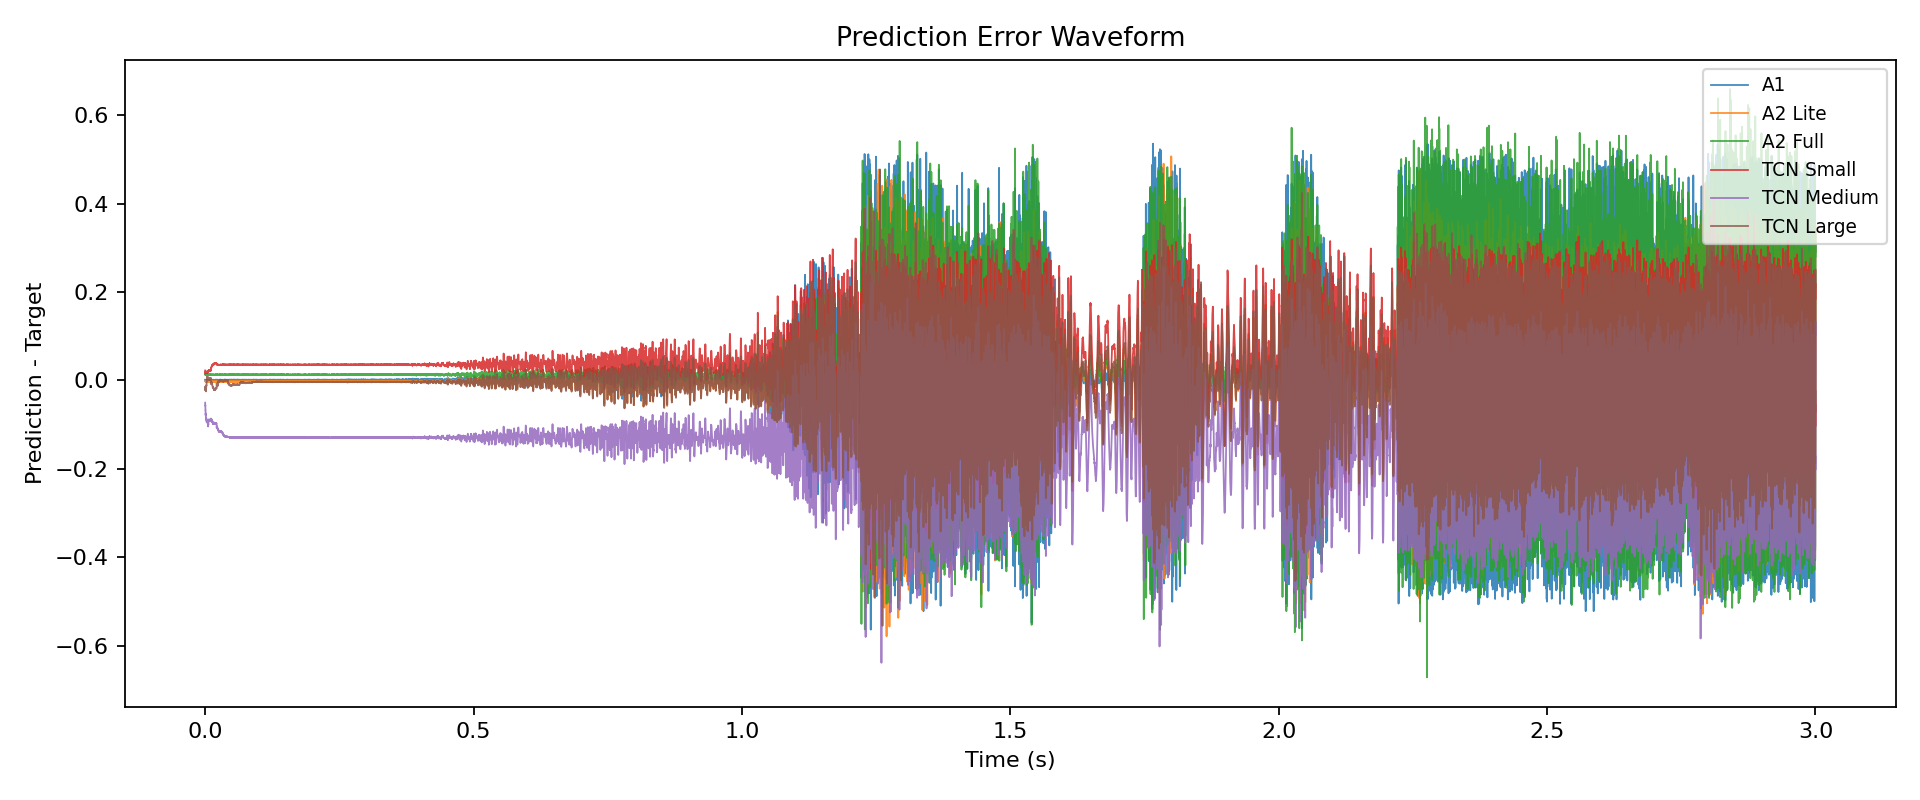
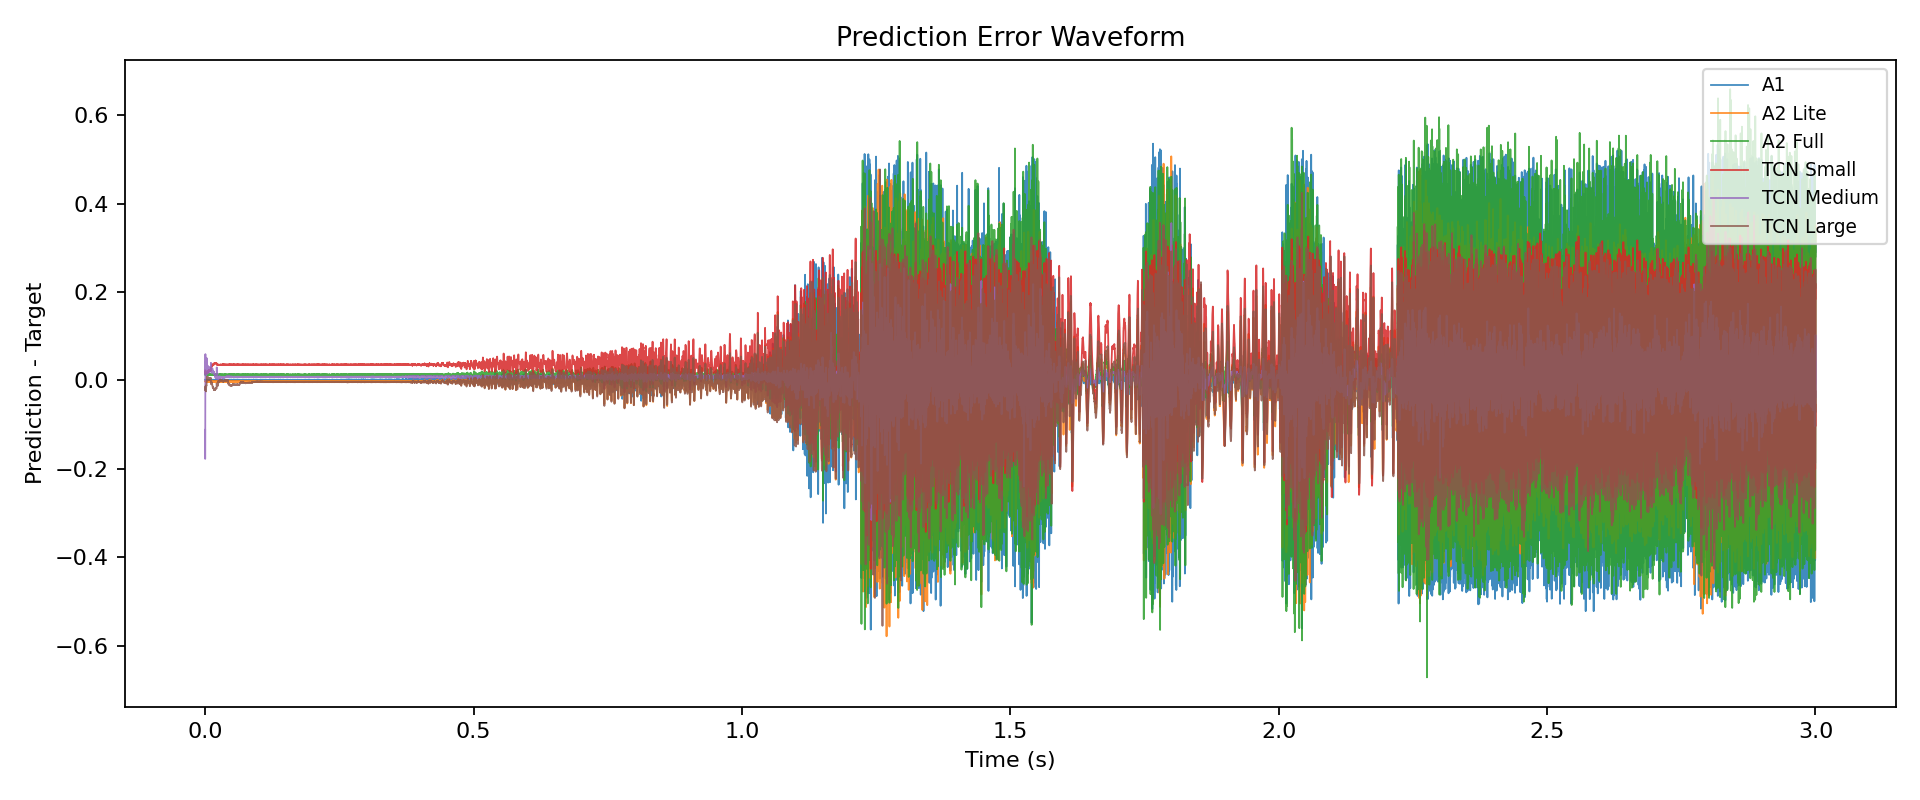
Update reports: final experiment summary, TCN model card, subjective listening template, and updated figures

Changed region(s): [[0.125, 0.4688, 0.9688, 0.7812], [0.1875, 0.4688, 0.25, 0.5], [0.0938, 0.4375, 0.125, 0.4688]]

diff --git a/reports/FINAL_EXPERIMENT_SUMMARY.md b/reports/FINAL_EXPERIMENT_SUMMARY.md
@@ -1,0 +1,47 @@
+# Final Experiment Summary
+
+## 1. Goal
+
+This project builds a custom neural audio black-box modeling system for dry-to-wet guitar tone transformation.
+
+## 2. Baselines
+
+- A1 baseline
+- A2-Lite baseline
+- A2-Full baseline
+
+## 3. Custom Model
+
+- GatedTCN-Small
+- GatedTCN-Medium
+- GatedTCN-Large
+
+## 4. Final Selected Model
+
+GatedTCN-Medium is selected as the final custom model.
+
+## 5. Held-out Test Comparison
+
+| Model | Test MSE | Test MAE | Test ESR | Test MRSTFT | Test SNR | RTF | Notes |
+|---|---:|---:|---:|---:|---:|---:|---|
+| A1 baseline | 0.0253307 | 0.0999642 | 1.7338 | 1.54993 | -1.91394 | 0.0670541 | Baseline prediction-file mode |
+| A2-Lite baseline | 0.0161523 | 0.0939756 | 1.08471 | 4.6246 | -0.275191 | 0.0517085 | Baseline prediction-file mode |
+| A2-Full baseline | 0.0207692 | 0.0924068 | 1.42595 | 2.27191 | -0.982792 | 0.0708378 | Baseline prediction-file mode |
+| GatedTCN-Small | 0.0154348 | 0.0996688 | 1.08549 | 4.53482 | -0.311414 | 0.0738286 | Smoke checkpoint, not formal training |
+| GatedTCN-Medium | 0.000828382 | 0.0201283 | 0.0608064 | 1.9389 | 12.3276 | 0.0132906 | Formal 20-epoch GPU checkpoint; final selected custom model |
+| GatedTCN-Large | 0.0133959 | 0.0873261 | 0.903768 | 4.07872 | 0.448861 | 0.336964 | Smoke checkpoint, not formal training |
+
+## 6. Interpretation
+
+Lower ESR means the waveform energy error is lower. Higher SNR means the prediction is closer to the target. RTF lower than 1 means faster-than-real-time offline inference. On the current aligned dataset and held-out test split, the Medium formal checkpoint significantly improves over its previous smoke checkpoint and outperforms A1/A2 on key test metrics in this experiment.
+
+## 7. Why Medium Instead of Large
+
+Large currently remains a smoke checkpoint. It has a larger receptive field, but it also has much higher inference cost in the current benchmark. Medium has completed formal 20-epoch GPU training and gives better validated held-out results. Therefore, Medium is the defensible final model for the current project state.
+
+## 8. Remaining Work
+
+- Formal train Small and Large if more GPU time is available.
+- Run multiple random seeds.
+- Use more amplifier / pedal datasets.
+- Add listening test with human raters.

diff --git a/reports/FINAL_TCN_MODEL_CARD.md b/reports/FINAL_TCN_MODEL_CARD.md
@@ -1,0 +1,64 @@
+# Final TCN Model Card
+
+## Final Selected Model
+
+GatedTCN-Medium is selected as the final custom TCN model.
+
+## Reason for Selection
+
+- It completed 20-epoch formal GPU training.
+- It achieved the best held-out test performance among formally trained custom TCN models.
+- It outperformed A1/A2 baselines on Test ESR and Test SNR.
+- It has a lower RTF than A1/A2 baselines in the current benchmark.
+- Small and Large remain smoke checkpoints and are not selected as final models.
+
+## Architecture
+
+| Field | Value |
+|---|---|
+| Model | GatedTCN-Medium |
+| Channels | 32 |
+| Skip Channels | 32 |
+| Receptive Field | 4093 |
+| Parameters | 167553 |
+| Activation | Gated tanh-sigmoid |
+| Causality | Causal dilated convolution |
+| Residual Connection | Yes |
+| Skip Connection | Yes |
+
+## Training
+
+| Field | Value |
+|---|---|
+| Training Config | configs/tcn_gated/training_formal_medium.json |
+| Epochs | 20 |
+| Device | cuda |
+| CUDA Device | NVIDIA GeForce RTX 5070 Ti Laptop GPU |
+| Best Epoch | 19 |
+| Best Val Loss | 0.00628651725128293 |
+| Checkpoint | outputs/tcn_gated/medium/checkpoints/best.pt |
+
+## Held-out Test Metrics
+
+| Metric | Value |
+|---|---:|
+| Test MSE | 0.0008283822842243348 |
+| Test MAE | 0.02012827992587347 |
+| Test ESR | 0.06080636323433006 |
+| Test MRSTFT | 1.9389014005661012 |
+| Test SNR | 12.32761074742885 |
+
+## Inference Speed
+
+| Metric | Value |
+|---|---:|
+| RTF | 0.01329061198095302 |
+| Samples/s | 3611571.842499769 |
+| Average Chunk Latency ms | 71.7117828566448 |
+
+## Limitations
+
+- Only GatedTCN-Medium has completed formal 20-epoch training.
+- Small and Large are currently smoke checkpoints.
+- Final subjective listening evaluation still needs manual human judgment.
+- The model is trained on the current aligned dataset and may not generalize to unseen amplifiers or pedals without retraining.

diff --git a/reports/TEST_SPLIT_EVALUATION.md b/reports/TEST_SPLIT_EVALUATION.md
@@ -2,9 +2,9 @@
 
 ## Purpose
 
-Final metrics should be reported on the held-out test split, not only on the full aligned audio. The train split is used for training, the val split is used for checkpoint selection, and the test split is used for final metrics.
+Final metrics should be reported on the held-out test split, not only on the full aligned audio. The train split is used for training and is not used for final testing. The val split is used for checkpoint selection, and the held-out test split is used for final metrics.
 
-GatedTCN-Medium uses the 20-epoch formal GPU checkpoint. GatedTCN-Medium test metrics are based on the 20-epoch formal GPU checkpoint.
+A1/A2 use prediction-file mode. GatedTCN-Medium uses formal checkpoint mode. GatedTCN-Medium test metrics are based on the 20-epoch formal GPU checkpoint.
 
 ## Commands
 
@@ -68,5 +68,11 @@ C:\Users\yanbo\.conda\envs\ntt-gpu-cu128\python.exe .\src\ntt\evaluation\evaluat
 - train split is used for training;
 - val split is used for checkpoint selection;
 - test split is used for final metrics;
+- A1/A2 metrics use prediction-file mode;
+- GatedTCN-Medium metrics use formal checkpoint mode;
 - Medium test metrics were recomputed from `outputs/tcn_gated/medium/checkpoints/best.pt` using CUDA;
 - Small and Large remain smoke checkpoint results.
+
+## Final Model Test Result
+
+GatedTCN-Medium is the final selected custom TCN model. Its held-out test metrics are computed using the 20-epoch formal GPU checkpoint, not the earlier CPU smoke checkpoint.

diff --git a/reports/custom_tcn_vs_a1_a2_comparison.md b/reports/custom_tcn_vs_a1_a2_comparison.md
@@ -1,12 +1,12 @@
 # Custom TCN vs A1/A2 Comparison
 
-The custom model is integrated into the same comparison path as A1 and A2. The current `GatedTCN-Medium` numbers come from a CPU smoke training run, not a full-quality training run.
+The custom model is integrated into the same comparison path as A1 and A2. The current `GatedTCN-Medium` numbers come from the 20-epoch formal GPU checkpoint.
 
 | Model | MSE | MAE | ESR | MRSTFT | SNR dB |
 | --- | --- | --- | --- | --- | --- |
 | A1 baseline | 0.0236522 | 0.0978778 | 1.21357 | 1.11878 | -0.84065 |
 | A2-Lite baseline | 0.0188753 | 0.101704 | 0.968476 | 4.18794 | 0.139113 |
 | A2-Full baseline | 0.0198791 | 0.0936032 | 1.01998 | 1.94226 | -0.0859018 |
-| GatedTCN-Medium | 0.032953 | 0.150761 | 1.69079 | 4.25608 | -2.28089 |
+| GatedTCN-Medium | 0.00123466 | 0.0234437 | 0.0633493 | 1.53635 | 11.9826 |
 
-`GatedTCN-Medium` currently has 167553 trainable parameters and a 4093-sample receptive field. The architecture and training/inference/evaluation loop are in place; the next quality step is longer training and model/loss ablation.
+`GatedTCN-Medium` currently has 167553 trainable parameters and a 4093-sample receptive field. It is the final selected custom TCN model for the current project state. Final claims should use the held-out test metrics in `reports/FINAL_EXPERIMENT_SUMMARY.md`; these full-file metrics are diagnostic.

diff --git a/reports/CUSTOM_TCN_ABLATION.md b/reports/CUSTOM_TCN_ABLATION.md
@@ -25,9 +25,12 @@
 
 ## Observations
 
-- Small: fastest previous CPU smoke TCN inference and lowest parameter count, but still not a formal checkpoint.
-- Medium: completed 20-epoch formal GPU training and now has the strongest held-out test MSE, ESR, and SNR among the current TCN variants.
-- Large: receptive field is 8189 samples, exceeding the approximate A2 reference of 6350 samples, but the current Large result is still a CPU smoke checkpoint.
+- Medium is the only TCN model that has completed formal training.
+- Small and Large are smoke checkpoints, not formal training results; they are useful for structure runnability checks and preliminary comparison only.
+- Small and Large smoke metrics must not be treated as final ablation conclusions.
+- If these results are described in a paper, the section should be called a preliminary ablation unless Small and Large later receive formal training.
+- Medium completed 20-epoch formal GPU training and now has the strongest held-out test MSE, ESR, and SNR among the current TCN variants.
+- Large has a receptive field of 8189 samples, exceeding the approximate A2 reference of 6350 samples, but its current result is still a smoke checkpoint.
 
 ## Remaining Work
 

diff --git a/reports/SUBJECTIVE_LISTENING_TEMPLATE.md b/reports/SUBJECTIVE_LISTENING_TEMPLATE.md
@@ -1,0 +1,31 @@
+# Subjective Listening Evaluation Template
+
+## Purpose
+
+This document provides a manual listening evaluation template for comparing target wet audio with A1, A2-Lite, A2-Full, and GatedTCN-Medium.
+
+## Audio Files
+
+| Model | File |
+|---|---|
+| Target Wet | data/aligned/aligned_wet.wav |
+| A1 | outputs/a1_baseline/prediction.wav |
+| A2-Lite | outputs/a2_baseline/a2_lite_prediction.wav |
+| A2-Full | outputs/a2_baseline/a2_full_prediction.wav |
+| GatedTCN-Medium | outputs/tcn_gated/medium/prediction.wav |
+
+## Rating Criteria
+
+Use a 1-5 scale:
+
+| Criterion | Description |
+|---|---|
+| Tone Similarity | How close the predicted tone is to the target wet tone |
+| Dynamic Response | Whether picking strength and transients are preserved |
+| Noise / Artifact | Whether unnatural noise, buzz, or digital artifacts appear |
+| Frequency Balance | Whether bass/mid/treble balance matches the target |
+| Overall Preference | Overall perceived quality |
+
+## Notes
+
+This is a subjective supplement to objective metrics. It should not replace held-out test metrics.

diff --git a/README.md b/README.md
@@ -271,6 +271,17 @@ The formal configs keep `num_epochs=20`. With `device=auto`, CUDA is used automa
 
 GatedTCN-Medium has completed 20-epoch formal GPU training. The formal checkpoint is available at `outputs/tcn_gated/medium/checkpoints/best.pt`.
 
+## Final Custom TCN Model
+
+The final selected custom model is `GatedTCN-Medium`.
+
+- Checkpoint: `outputs/tcn_gated/medium/checkpoints/best.pt`
+- Prediction: `outputs/tcn_gated/medium/prediction.wav`
+- Model card: `reports/FINAL_TCN_MODEL_CARD.md`
+- Final experiment summary: `reports/FINAL_EXPERIMENT_SUMMARY.md`
+
+Small and Large are currently smoke checkpoints unless formal training is run separately. They are not used as the final selected model.
+
 Reproduce the Medium formal GPU run:
 
 ```powershell

diff --git a/reports/FIGURE_ANALYSIS.md b/reports/FIGURE_ANALYSIS.md
@@ -27,4 +27,6 @@ Spectrograms show how energy is distributed over time and frequency. Differences
 
 ## Scope
 
+GatedTCN-Medium figures are generated from the 20-epoch formal GPU checkpoint.
+
 These figures visualize the current smoke/formal experiment artifacts. They are not a final subjective listening conclusion.
